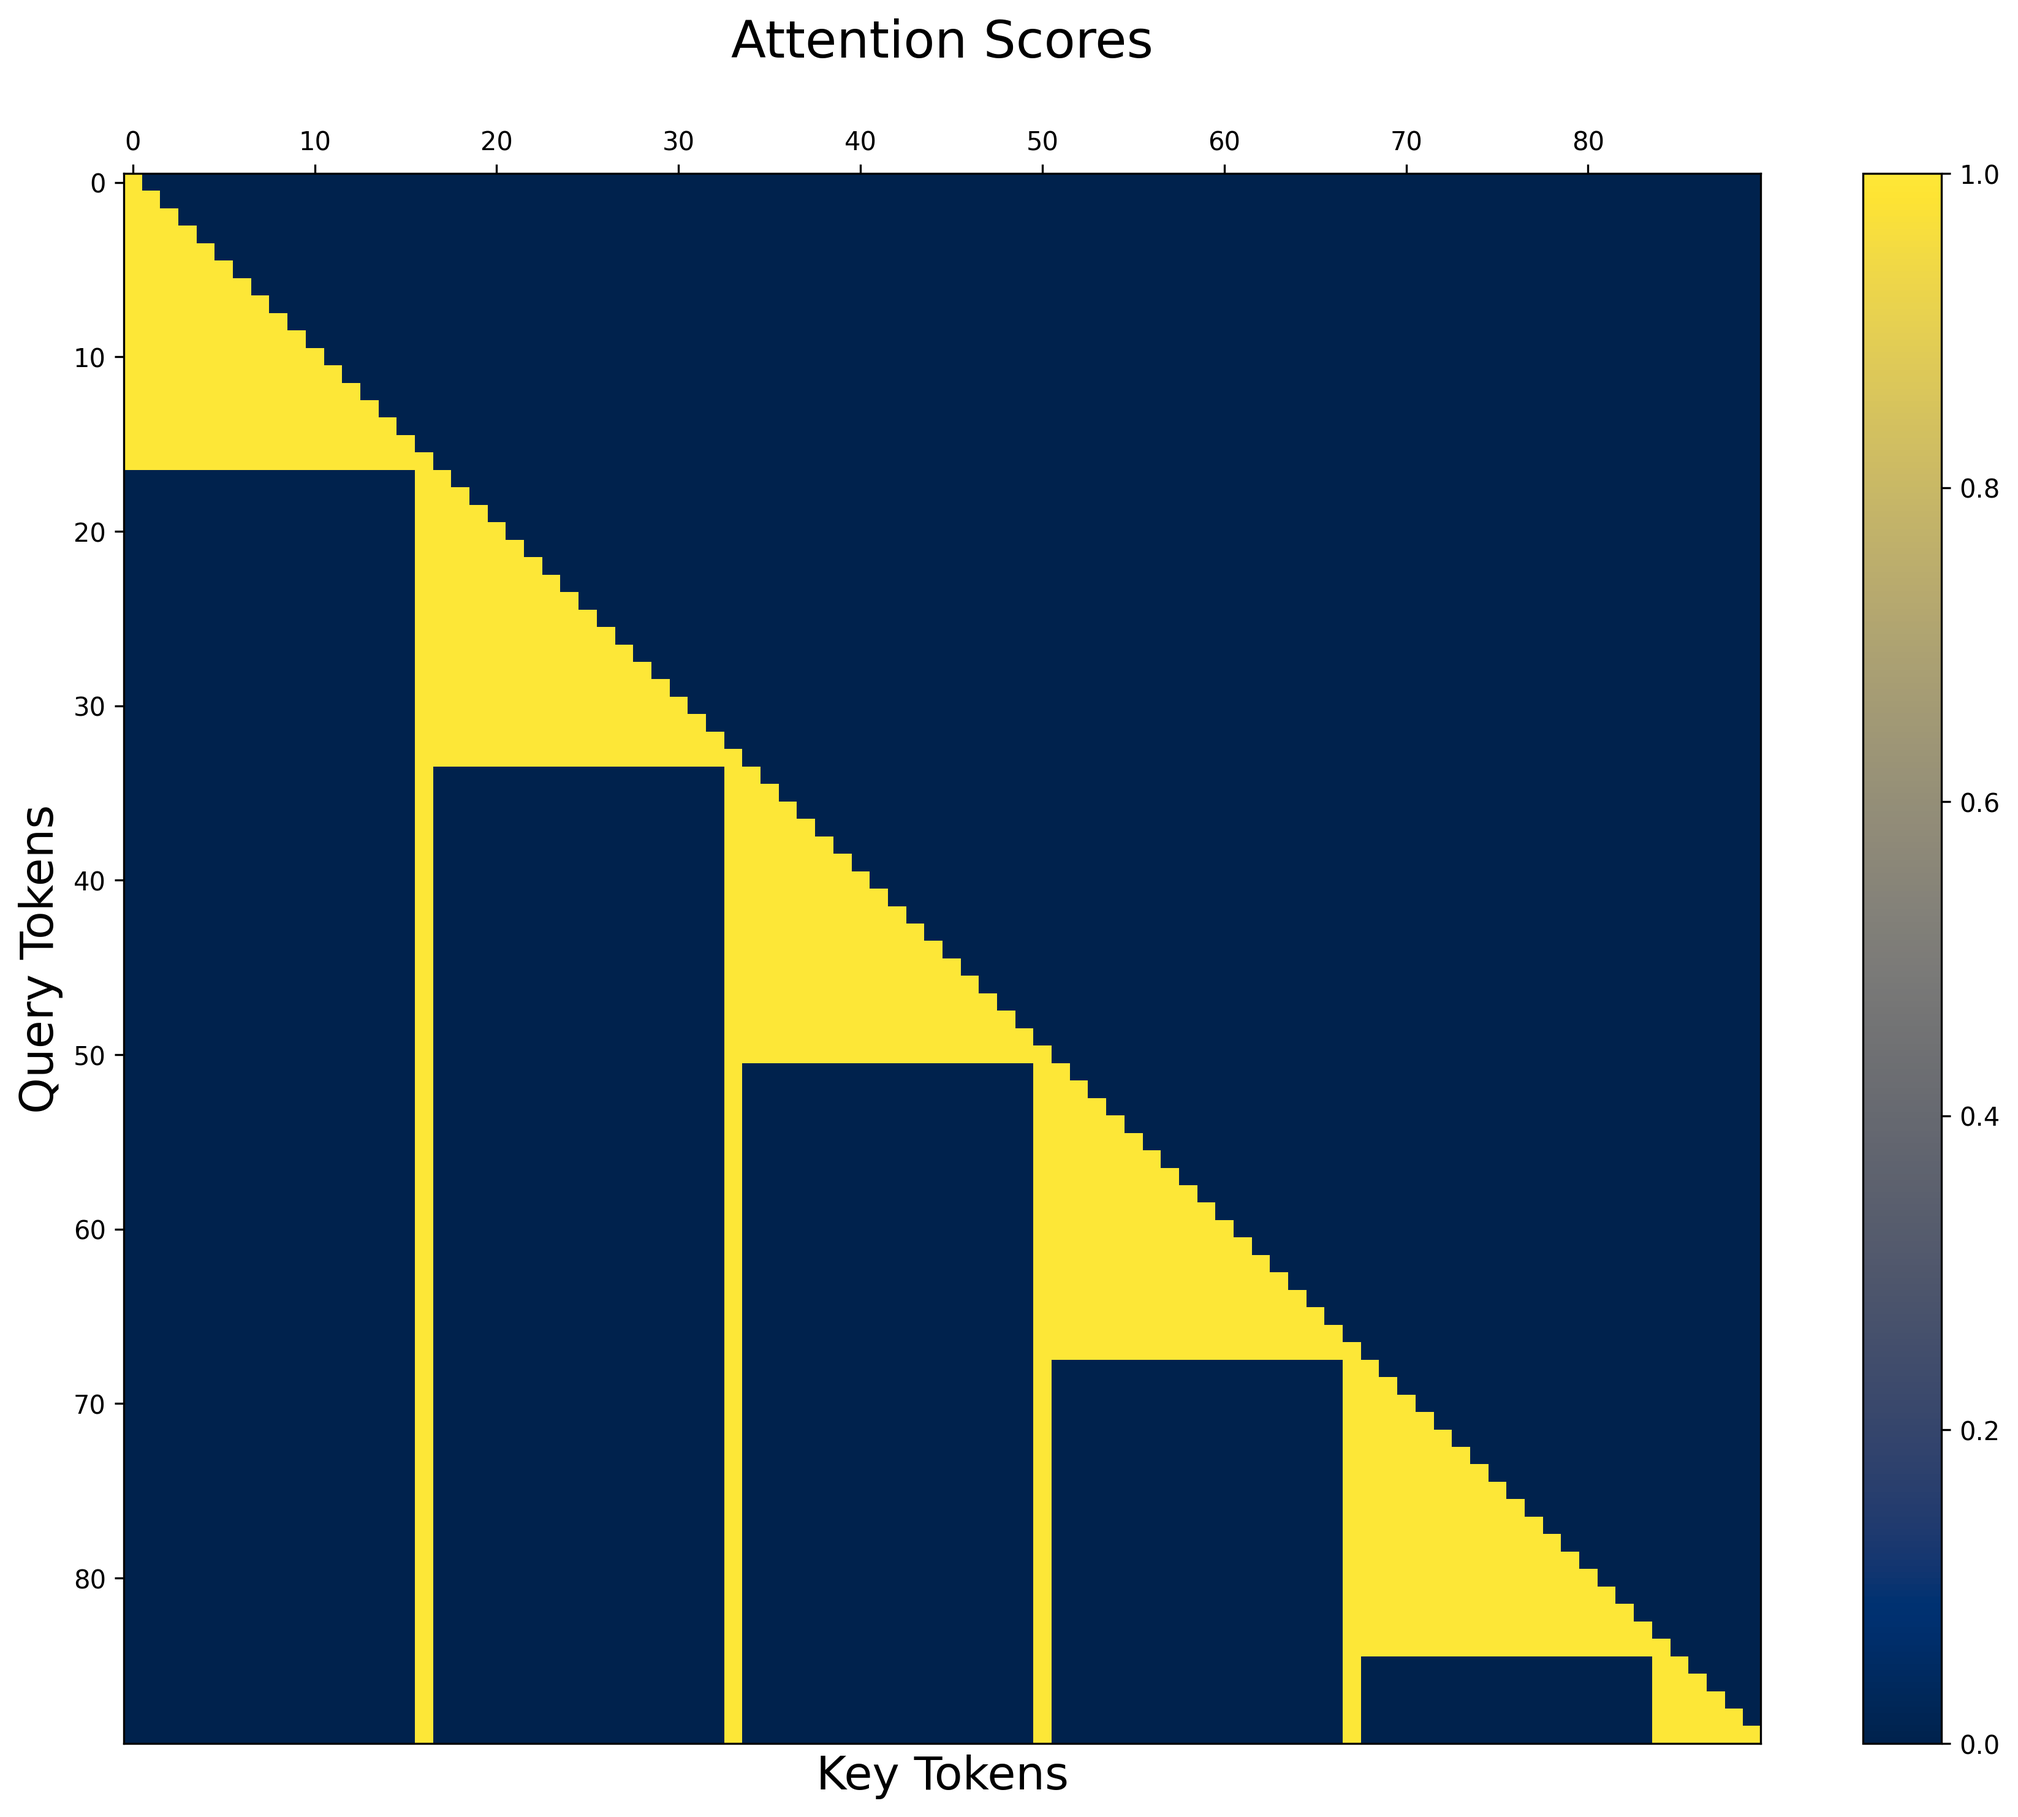
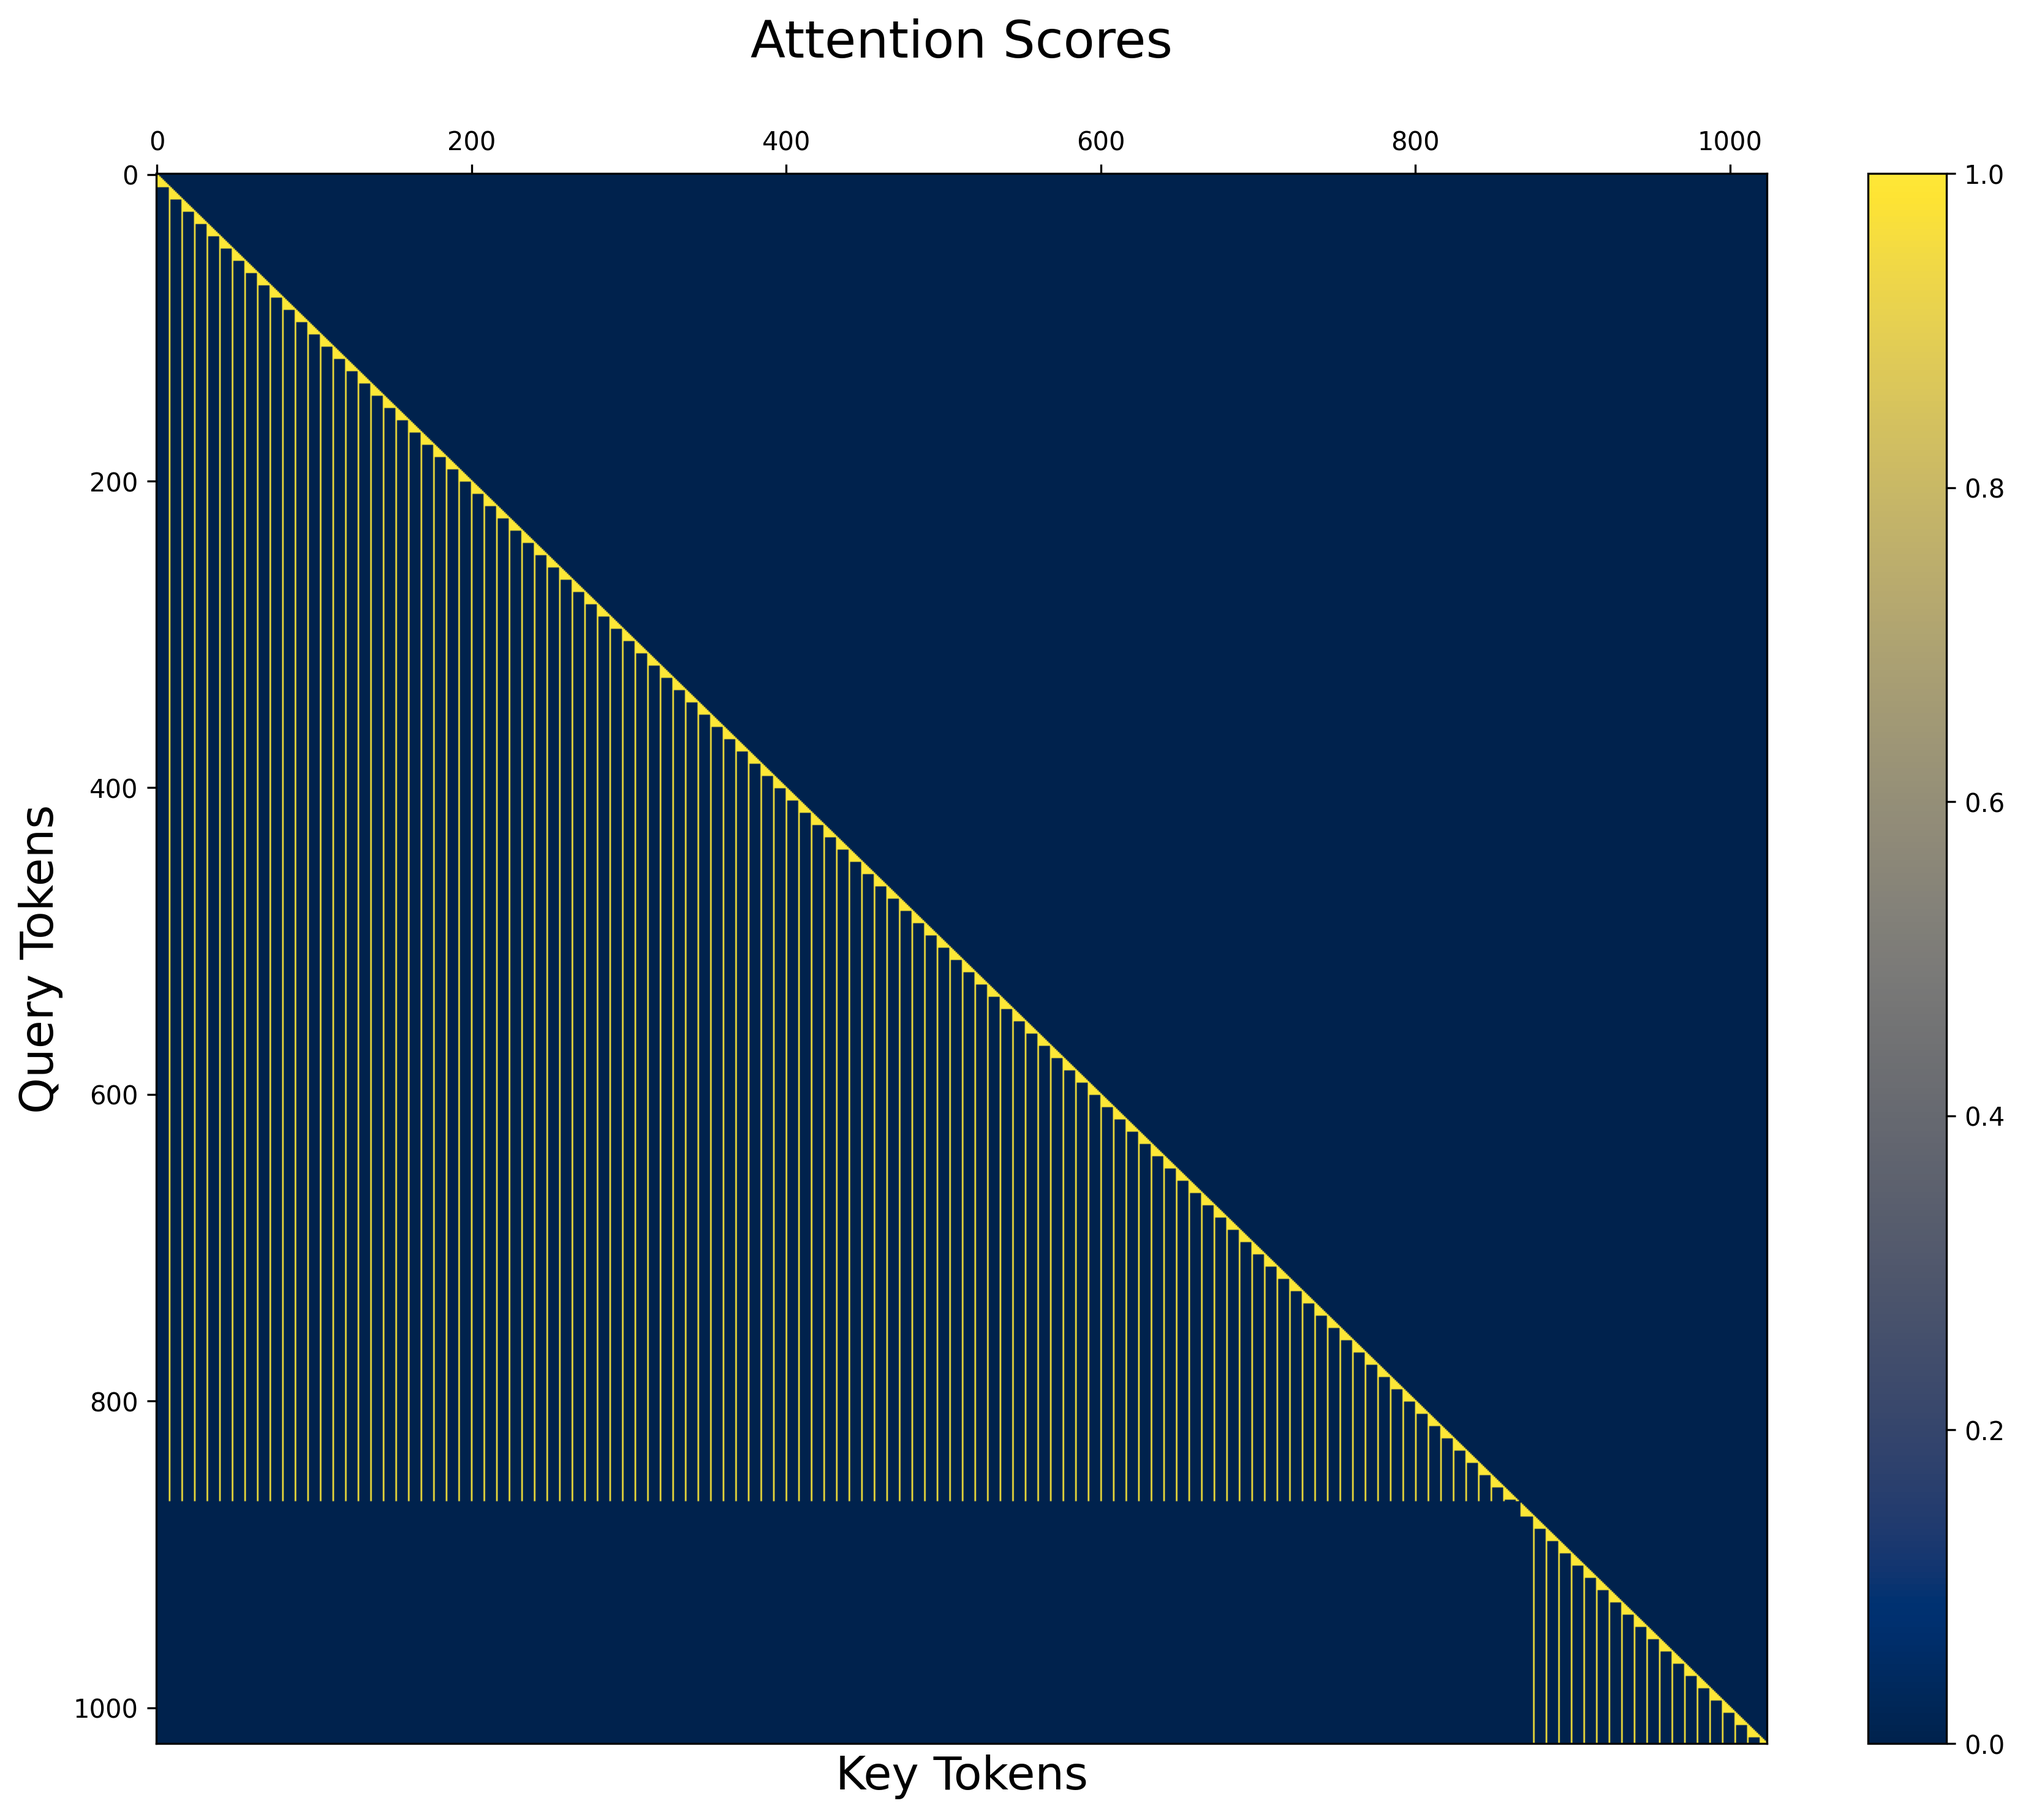
update

diff --git a/seed.py b/seed.py
@@ -14,6 +14,14 @@ from muon import MuonWithAuxAdam
 import wandb
 import time
 
+torch_compile_options = {
+    "epilogue_fusion"   : True,
+    "max_autotune"      : True,
+    "shape_padding"     : True,
+    "triton.cudagraphs" : False,
+}
+
+flex_attention.flex_attention = torch.compile(flex_attention.flex_attention, dynamic = True, options = torch_compile_options)
 
 wandb.init(project="ckpt-llm")
 # -------------------------
@@ -100,7 +108,7 @@ def maybe_append_ckpt(seq: torch.Tensor, ckpt_token_id: int, stride: int) -> tor
 # Mask & Positions
 # -------------------------
 
-def build_position_ids(ids: torch.Tensor, pad_token_id: Optional[int]) -> torch.Tensor:
+def build_position_ids(ids: torch.Tensor, pad_token_id: Optional[int], device: torch.device) -> torch.Tensor:
     """
     Monotonic 0..N per document (docs delimited by pad_token_id). Entire sequence is 1 doc if pad_token_id is None.
     """
@@ -109,13 +117,13 @@ def build_position_ids(ids: torch.Tensor, pad_token_id: Optional[int]) -> torch.
 
     if pad_token_id is None or (ids == pad_token_id).sum() == 0:
         # Single doc: simple arange
-        return torch.arange(ids.numel(), device=ids.device)
+        return torch.arange(ids.numel(), device=device)
 
     docs = (ids == pad_token_id).long().cumsum(0)
     position_ids = []
     for doc_id in docs.unique():
         idxs = (docs == doc_id).nonzero(as_tuple=False).flatten()
-        position_ids.append(torch.arange(idxs.numel(), device=ids.device))
+        position_ids.append(torch.arange(idxs.numel(), device=device))
     position_ids = torch.cat(position_ids, dim=0)
     return position_ids
 
@@ -191,15 +199,14 @@ def format_mmlu_prompt(question: str, choices: Sequence[str]) -> str:
 
 @dataclass
 class TrainConfig:
-    model_name: str = "meta-llama/Llama-3.2-1B"
-    dataset_name: str = "HuggingFaceFW/finepdfs"
+    model_name: str = "Qwen/Qwen2.5-0.5B"
     max_steps: int = 100000
-    max_tokens: int = 1024*12
+    max_tokens: int = 1024*16
     use_ckpt: bool = True
-    ckpt_stride: int = 16
-    lr: float = 1e-4
-    log_interval: int = 10
-    eval_interval: int = 500
+    ckpt_stride: int = 7
+    lr: float = 5e-5
+    log_interval: int = 1
+    eval_interval: int = 100
     block_size: int = 128
     max_new_tokens: int = 32
     fixed_prompt: str = "list of all capitals: capital of india is new delhi, capital of america is"
@@ -233,10 +240,11 @@ def initialize_tokenizer(
     tokenizer = AutoTokenizer.from_pretrained(config.model_name)
     tokenizer.add_special_tokens({"cls_token": "<|checkpoint|>"})
     tokenizer.add_special_tokens({"pad_token": "<|pad|>"})
+    tokenizer.add_special_tokens({"bos_token": "<|bos|>"})
 
     ckpt_id = tokenizer.cls_token_id
     pad_id = tokenizer.pad_token_id
-
+    bos_id = tokenizer.bos_token_id
     special_ids = set(tokenizer.all_special_ids)
     special_ids.add(ckpt_id)
     special_ids_tensor = torch.tensor(sorted(special_ids), device=device)
@@ -262,7 +270,7 @@ def initialize_model(
 
     model.resize_token_embeddings(len(tokenizer))
     model.train()
-    # model = torch.compile(model)
+    # model = torch.compile(model, dynamic = True, options = torch_compile_options)
     return model
 
 # -------------------------
@@ -281,9 +289,8 @@ def prepare_batch(
     """
     Convert a token chunk into training tensors (input_ids, labels, block mask, mask fn, position_ids).
     """
-    full_ids = torch.tensor(chunk)
-    train_ids = full_ids[:-1].to(device, non_blocking=True)
-    labels = full_ids[1:].clone().to(device, non_blocking=True)
+    train_ids = torch.tensor(chunk, device=device)
+    labels = train_ids.detach().clone()
 
     # Ignore loss on special tokens
     labels[labels == ckpt_id] = -100
@@ -291,7 +298,7 @@ def prepare_batch(
         labels[labels == pad_id] = -100
 
     # Positions are per-doc (using pad delimiters), shifted to align with input_ids
-    position_ids = build_position_ids(full_ids, pad_id)[:-1].to(device, non_blocking=True)
+    position_ids = build_position_ids(train_ids, pad_id, device)
 
     attn_mask, mask_mod = create_attention_mask(
         train_ids,
@@ -340,7 +347,7 @@ def generate_sample(
             continue
 
         # Recompute mask on growth
-        pos_ids = build_position_ids(val_ids, pad_id)
+        pos_ids = build_position_ids(val_ids, pad_id, device)
         attn_mask, _ = create_attention_mask(
             val_ids,
             special_token_ids=special_ids_tensor,
@@ -378,7 +385,7 @@ def _choice_logprob_sum(
     tokens_prompt = tokenizer.encode(base_prompt, add_special_tokens=False)
     tokens_choice = tokenizer.encode(completion, add_special_tokens=False)
     tokens_prompt = [tokenizer.bos_token_id] + tokens_prompt
-    tokens_choice = [tokenizer.bos_token_id] + tokens_choice
+    # tokens_choice = [tokenizer.bos_token_id] + tokens_choice
     seq = tokens_prompt + tokens_choice
     labels = [0] * len(tokens_prompt) + [1] * len(tokens_choice)
 
@@ -389,7 +396,7 @@ def _choice_logprob_sum(
     seq_t = torch.tensor(seq, device=device)
     input_ids = seq_t[:-1]
     target_ids = seq_t[1:]
-    pos_ids = build_position_ids(seq_t, pad_id)[:-1]
+    pos_ids = build_position_ids(seq_t, pad_id, device)[:-1]
 
     attn_mask, _ = create_attention_mask(
         input_ids, special_token_ids=special_ids_tensor, checkpoint_id=ckpt_id, pad_id=pad_id, block_size=block_size, use_ckpt=use_ckpt
@@ -539,20 +546,22 @@ def train_model(
         if not visualized:
             print(f"Input IDs sample: {tokenizer.decode(input_ids.tolist())}")
             from visualize import visualize_attention_scores  # pragma: no cover
-            q = torch.zeros((1, 1, len(input_ids[:90]), 4), device=device)
-            k = torch.zeros((1, 1, len(input_ids[:90]), 4), device=device)
+            q = torch.zeros((1, 1, len(input_ids[:1024]), 4), device=device)
+            k = torch.zeros((1, 1, len(input_ids[:1024]), 4), device=device)
             print(f"Mask mod: {mask_mod}")
             visualize_attention_scores(q, k, mask_mod=mask_mod, device=device)
             visualized = True
+            print(input_ids.shape)
         optimizer.zero_grad(set_to_none=True)
         outputs = model(
             input_ids.unsqueeze(0),
             attention_mask=attn_mask,
             position_ids=position_ids.unsqueeze(0),
-            # labels=labels.unsqueeze(0),
+            labels=labels.unsqueeze(0),
         )
-        logits = outputs.logits[0]
-        loss = torch.nn.functional.cross_entropy(logits, labels, ignore_index=-100)
+        # logits = outputs.logits[0]
+        # loss = torch.nn.functional.cross_entropy(logits, labels, ignore_index=-100)
+        loss = outputs.loss
         loss.backward()
         optimizer.step()
         torch.cuda.synchronize()
@@ -564,6 +573,8 @@ def train_model(
             ckpt_mask = input_ids == ckpt_id
             ckpt_logits = outputs.logits[0, ckpt_mask, :]
             ckpt_preds = torch.argmax(ckpt_logits, dim=-1)
+            labels = torch.roll(labels, 1)
+            labels[0] = -100
             ckpt_labels = labels[ckpt_mask]
             ckpt_acc = (ckpt_preds == ckpt_labels).float().mean()
             print(f"[step {step}] loss={loss_val:.4f} ckpt_acc={ckpt_acc:.4f} time={end-start:.4f}")
@@ -643,6 +654,7 @@ def main():
             ckpt_id=ckpt_id,
             ckpt_stride=config.ckpt_stride,
             bos_id=tokenizer.bos_token_id,
+            pad_id=pad_id,
             local_rank=0,
             world_size=1,
             base_seed=config.seed,

diff --git a/dist_dataloader.py b/dist_dataloader.py
@@ -76,6 +76,7 @@ def distributed_sequence_generator(
     ckpt_id: int,
     ckpt_stride: int,
     bos_id: int,
+    pad_id: int,
     *,
     local_rank: int,
     world_size: int,
@@ -97,7 +98,7 @@ def distributed_sequence_generator(
     if sequence_length <= 0:
         raise ValueError("sequence_length must be > 0")
 
-    sample_span = sequence_length + 1  # include next token for labels
+    sample_span = sequence_length
 
     epoch = 0
 
@@ -144,7 +145,9 @@ def distributed_sequence_generator(
                             item = tokens[start:end]
                             # item = [bos_id] + item
                             item = insert_checkpoints(item, ckpt_stride, ckpt_id)
+                            items.append(bos_id)
                             items.extend(item)
+                            items.append(pad_id)
                         # print(lengths)
                         yield torch.tensor(items[:sample_span], dtype=torch.long)
                         lengths.clear()
@@ -173,6 +176,7 @@ class DistributedTokenDataset(IterableDataset):
         ckpt_id: int,
         ckpt_stride: int,
         bos_id: int,
+        pad_id: int,
         *,
         local_rank: int,
         world_size: int,
@@ -186,6 +190,7 @@ class DistributedTokenDataset(IterableDataset):
         self.ckpt_id = ckpt_id
         self.ckpt_stride = ckpt_stride
         self.bos_id = bos_id
+        self.pad_id = pad_id
         self.local_rank = local_rank
         self.world_size = world_size
         self.base_seed = base_seed
@@ -197,6 +202,7 @@ class DistributedTokenDataset(IterableDataset):
             ckpt_id=self.ckpt_id,
             ckpt_stride=self.ckpt_stride,
             bos_id=self.bos_id,
+            pad_id=self.pad_id,
             local_rank=self.local_rank,
             world_size=self.world_size,
             base_seed=self.base_seed,

diff --git a/cache_tokens.py b/cache_tokens.py
@@ -109,7 +109,6 @@ def _process_sample(payload: tuple[int, dict]) -> tuple[int, Optional[List[int]]
     idx, sample = payload
     text = sample.get("text")
     ids = _WORKER_TOKENIZER.encode(text, add_special_tokens=True)
-    ids = ids + [_WORKER_TOKENIZER.pad_token_id]
     return idx, ids
 
 
